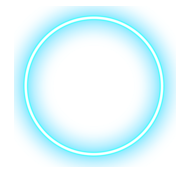
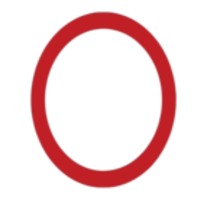
reinicio y volver al menu listo (por alguna razon cambia el o por la x)

diff --git a/TIC-TAC-TOE/tictactoe.py b/TIC-TAC-TOE/tictactoe.py
@@ -10,7 +10,6 @@ screen = pygame.display.set_mode((450, 450))  # Configura la pantalla con tamañ
 pygame.display.set_caption("Tic Tac Toe")  # Establece el título de la ventana
 
 cell_size = 150  # Tamaño de cada celda en el tablero
-
 offset_x, offset_y = 0, 0  # Desplazamiento para centrar las imágenes
 
 # Coordenadas de las celdas en el tablero
@@ -27,18 +26,23 @@ game_over = False  # Estado del juego
 menu_displayed = True  # Estado del menú (si se está mostrando)
 mode_selected = False  # Estado del modo de juego
 current_music = None  # Música actual reproducida
+circle = None  # Imagen de 'O'
+x = None  # Imagen de 'X'
+background = None  # Imagen de fondo del juego
 clock = pygame.time.Clock()  # Reloj para controlar los FPS
 
 def menu():
+    global background, current_music
     # Cargar y transformar la imagen del menú
-    background = pygame.image.load('TIC-TAC-TOE/assets/kyoko.png')  # Carga la imagen de fondo del menú
+    background = pygame.image.load('TIC-TAC-TOE/assets/menu.png')  # Carga la imagen de fondo del menú
     background = pygame.transform.scale(background, (450, 450))  # Redimensiona la imagen
     background_music = pygame.mixer.Sound('TIC-TAC-TOE/assets/0.mp3')  # Carga la música del menú
     background_music.play(loops=-1)  # Reproduce la música en bucle
-
+    current_music = background_music  # Guarda la música actual
     return background, background_music
 
 def default_mode():
+    global circle, x, background, current_music
     # Cargar y configurar recursos para el modo predeterminado
     background = pygame.image.load('TIC-TAC-TOE/assets/tictactoe_background.png')  # Carga la imagen de fondo del juego
     background = pygame.transform.scale(background, (450, 450))  # Redimensiona la imagen
@@ -48,9 +52,11 @@ def default_mode():
     x = pygame.transform.scale(x, (125, 125))  # Redimensiona la imagen de la 'X'
     background_music = pygame.mixer.Sound('TIC-TAC-TOE/assets/1.wav')  # Carga la música para el modo predeterminado
     background_music.play(loops=-1)  # Reproduce la música en bucle
+    current_music = background_music  # Guarda la música actual
     return background, circle, x, background_music
 
 def rcg_mode():
+    global circle, x, background, current_music
     # Cargar y configurar recursos para el modo rcg
     background = pygame.image.load('TIC-TAC-TOE/assets/rcg_background.png')  # Carga la imagen de fondo del modo rcg
     background = pygame.transform.scale(background, (450, 450))  # Redimensiona la imagen
@@ -60,19 +66,21 @@ def rcg_mode():
     x = pygame.transform.scale(x, (112, 112))  # Redimensiona la imagen de la 'X'
     background_music = pygame.mixer.Sound('TIC-TAC-TOE/assets/2.mp3')  # Carga la música para el modo rcg
     background_music.play(loops=-1)  # Reproduce la música en bucle
+    current_music = background_music  # Guarda la música actual
     return background, circle, x, background_music
 
 def stop_current_music():
     global current_music
+    # Detiene la música actual si está reproduciéndose
     if current_music:
-        current_music.stop()  # Detiene la música actual si está reproduciéndose
+        current_music.stop()
 
 def display_board():
-    screen.fill((0, 0, 0))  # Rellena la pantalla con color negro
-    # Dibujar el tablero de juego
+    # Rellena la pantalla con color negro y dibuja el fondo del tablero
+    screen.fill((0, 0, 0))  
     screen.blit(background, (0, 0))  # Dibuja el fondo del tablero
 
-    # Dibujar X y O en el tablero
+    # Dibuja X y O en el tablero según el estado del mismo
     for row in range(3):
         for col in range(3):
             if board[row][col] == 'X':
@@ -81,19 +89,18 @@ def display_board():
                 draw_symbol(screen, 'O', row, col)  # Dibuja una 'O' en la celda correspondiente
 
 def draw_symbol(screen, turn, row, col):
+    # Dibuja el símbolo (X o O) en la celda correspondiente
     _x, y = coor[row][col]  # Obtiene las coordenadas de la celda
-
     if turn == 'X':
         image = x  # Selecciona la imagen de 'X'
     elif turn == 'O':
         image = circle  # Selecciona la imagen de 'O'
     _x += cell_size // 2 - image.get_width() // 2 + offset_x  # Calcula la posición X para centrar la imagen
     y += cell_size // 2 - image.get_height() // 2 + offset_y  # Calcula la posición Y para centrar la imagen
-
     screen.blit(image, (_x, y))  # Dibuja la imagen en la pantalla
 
 def victory_for():
-    # Verificar si hay un ganador en el tablero
+    # Verifica si hay un ganador en el tablero
     for i in range(3):
         if board[i][0] == board[i][1] == board[i][2] and board[i][0] != "":
             return True  # Verifica las filas
@@ -106,83 +113,120 @@ def victory_for():
     return False
 
 def is_board_full():
-    # Verificar si el tablero está completamente lleno
+    # Verifica si el tablero está completamente lleno
     for row in board:
         if "" in row:
             return False  # Si hay alguna celda vacía, el tablero no está lleno
     return True
 
-def load_result_image():
-    # Cargar la imagen de resultado
-    result_image = pygame.image.load('TIC-TAC-TOE/assets/kyoko.png')  # Carga la imagen de resultado
+def show_result_image(result_text):
+    # Muestra la imagen del resultado del juego
+    result_image = pygame.image.load('TIC-TAC-TOE/assets/kyoko.png')  # Carga la imagen del resultado
     result_image = pygame.transform.scale(result_image, (450, 450))  # Redimensiona la imagen
     return result_image
 
-background, background_music = menu()  # Inicializa el menú y la música
+def handle_result_screen(result_text):
+    # Maneja la pantalla de resultado después de que el juego termina
+    display_board()  # Actualiza la pantalla con el estado del tablero final
+    screen.blit(show_result_image(result_text), (0, 0))  # Muestra la imagen del resultado
+    pygame.display.update()  # Actualiza la pantalla
+
+    while True:
+        for event in pygame.event.get():
+            if event.type == pygame.QUIT:
+                pygame.quit()
+                sys.exit()  # Cierra el juego si se recibe el evento de cierre
+            elif event.type == pygame.KEYDOWN:
+                if event.key == pygame.K_r:
+                    reset_game()  # Reinicia el juego si se presiona la tecla 'R'
+                    return
+                elif event.key == pygame.K_m:
+                    return_to_menu()  # Vuelve al menú si se presiona la tecla 'M'
+                    return
+
+def reset_game():
+    global board, turn, game_over
+    # Reinicia el estado del juego
+    board = [["" for _ in range(3)] for _ in range(3)]  # Reinicia el tablero
+    turn = 'X'  # Reinicia el turno
+    game_over = False  # Marca el juego como no terminado
+    display_board()  # Muestra el tablero reiniciado
+
+def return_to_menu():
+    global menu_displayed, mode_selected, current_music, background, board, turn, game_over
+    # Vuelve al menú principal
+    stop_current_music()  # Detiene la música actual
+    background, background_music = menu()  # Muestra el menú
+    menu_displayed = True  # Marca que el menú se está mostrando
+    mode_selected = False  # Marca que no se ha seleccionado un modo
+    current_music = background_music  # Guarda la música del menú
+    board = [["" for _ in range(3)] for _ in range(3)]  # Reinicia el tablero
+    turn = 'X'  # Reinicia el turno
+    game_over = False  # Marca el juego como no terminado
+
+background, background_music = menu()  # Inicializa la pantalla del menú
 
 while not game_over:
-    clock.tick(30)  # Limita el bucle a 30 fotogramas por segundo
+    clock.tick(30)  # Controla la velocidad de actualización de la pantalla (30 FPS)
 
     if menu_displayed:
-        # Mostrar el menú principal y esperar una tecla
         screen.blit(background, (0, 0))  # Dibuja el fondo del menú
         pygame.display.update()  # Actualiza la pantalla
         waiting_for_key = True
         while waiting_for_key:
             for event in pygame.event.get():
                 if event.type == pygame.QUIT:
-                    game_over = True
+                    game_over = True  # Termina el juego si se recibe el evento de cierre
                     waiting_for_key = False
                 elif event.type == pygame.KEYDOWN:
                     if event.key == pygame.K_1:
-                        stop_current_music()  # Detiene la música del menú
-                        background, circle, x, current_music = default_mode()  # Carga el modo predeterminado
-                        menu_displayed = False
-                        mode_selected = True
+                        stop_current_music()  # Detiene la música actual
+                        background, circle, x, current_music = default_mode()  # Configura el modo predeterminado
+                        menu_displayed = False  # Oculta el menú
+                        mode_selected = True  # Marca que se ha seleccionado un modo
                         waiting_for_key = False
                     elif event.key == pygame.K_2:
-                        stop_current_music()  # Detiene la música del menú
-                        background, circle, x, current_music = rcg_mode()  # Carga el modo rcg
-                        menu_displayed = False
-                        mode_selected = True
+                        stop_current_music()  # Detiene la música actual
+                        background, circle, x, current_music = rcg_mode()  # Configura el modo rcg
+                        menu_displayed = False  # Oculta el menú
+                        mode_selected = True  # Marca que se ha seleccionado un modo
                         waiting_for_key = False
                     elif event.key == pygame.K_ESCAPE:
-                        pygame.quit()  # Cierra la aplicación si se presiona ESC
-                        sys.exit()
-    else:
-        # Detener la música del menú si el menú no se está mostrando
-        if background_music:
-            background_music.stop()
+                        pygame.quit()
+                        sys.exit()  # Termina el juego si se presiona la tecla 'ESC'
 
-    if mode_selected:
+    else:
+        if background_music:
+            background_music.stop()  # Detiene la música si se está reproduciendo
+
         for event in pygame.event.get():
             if event.type == pygame.QUIT:
-                game_over = True
+                game_over = True  # Termina el juego si se recibe el evento de cierre
             elif event.type == pygame.MOUSEBUTTONDOWN:
-                # Manejar los clics del ratón para jugar
-                mouseX, mouseY = event.pos
+                mouseX, mouseY = event.pos  # Obtiene la posición del ratón
                 if (mouseX >= 0 and mouseX < 450) and (mouseY >= 0 and mouseY < 450):
-                    row = mouseY // 150
-                    col = mouseX // 150
+                    row = mouseY // 150  # Calcula la fila
+                    col = mouseX // 150  # Calcula la columna
                     if board[row][col] == "":
-                        board[row][col] = turn
-                        game_is_over = victory_for()
+                        board[row][col] = turn  # Marca la celda con el símbolo del turno actual
+                        display_board()  # Muestra el tablero actualizado
+                        pygame.display.update()  # Actualiza la pantalla
+                        game_is_over = victory_for()  # Verifica si el juego ha terminado
                         if game_is_over:
-                            print(f"¡¡El jugador {turn} ha ganado!!")
-                            game_over = True
+                            handle_result_screen(f'{turn}_wins')  # Muestra la pantalla de resultado de victoria
                         elif is_board_full():
-                            print("¡¡Es un empate!!")
-                            game_over = True
-                        turn = 'O' if turn == 'X' else 'X'  # Cambia de turno
+                            handle_result_screen('draw')  # Muestra la pantalla de resultado de empate
+                        turn = 'O' if turn == 'X' else 'X'  # Cambia el turno
             elif event.type == pygame.KEYDOWN:
                 if event.key == pygame.K_ESCAPE:
-                    pygame.quit()  # Cierra la aplicación si se presiona ESC
-                    sys.exit()
+                    pygame.quit()
+                    sys.exit()  # Termina el juego si se presiona la tecla 'ESC'
 
-    display_board()  # Actualiza la pantalla con el tablero actual
-    pygame.display.update()
+    if not menu_displayed:
+        display_board()  # Muestra el tablero si no se está mostrando el menú
+        pygame.display.update()  # Actualiza la pantalla
 
-pygame.quit()  # Finaliza Pygame al salir del bucle
+pygame.quit()  # Cierra Pygame al finalizar el juego
 
 """
 def enter_move(board):
